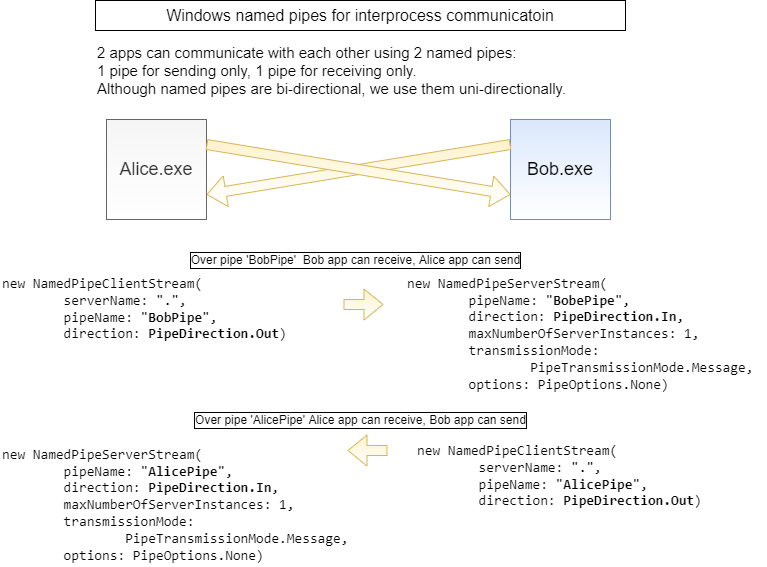
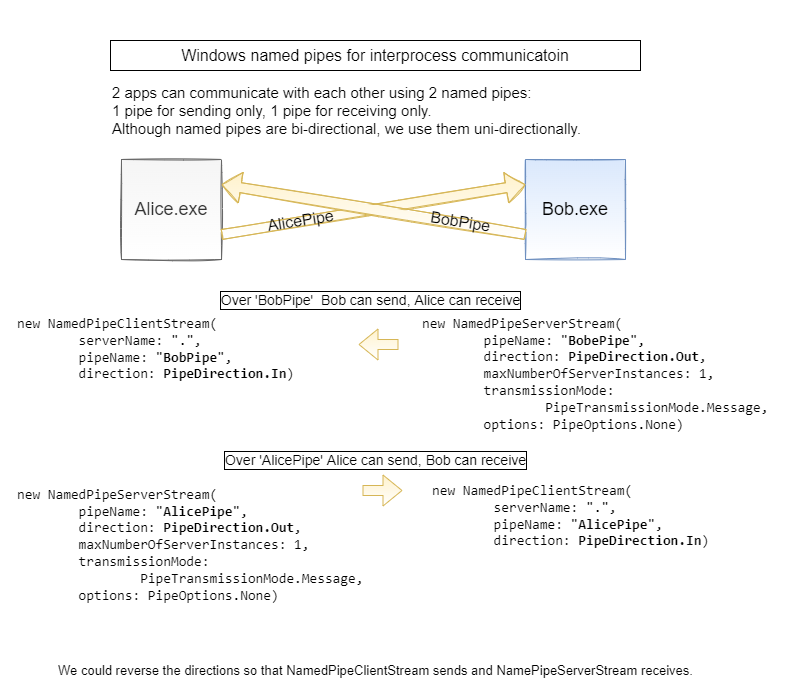
Diagram improved, directions reversed

Changed region(s): [[0.0, 0.3898, 0.9896, 0.9894], [0.1199, 0.0, 0.8096, 0.3898], [0.1499, 0.3598, 0.2699, 0.3898]]

diff --git a/src/NamedPipeLib/NamedPipeConnection.cs b/src/NamedPipeLib/NamedPipeConnection.cs
@@ -8,8 +8,8 @@ public class NamedPipeConnection : IDisposable
     private readonly string _myName;
     private readonly string _partnerName;
     private bool _connectionToPartnerEstablashed = false;
-    NamedPipeServerStream _in;
-    NamedPipeClientStream _out;
+    NamedPipeClientStream _in;
+    NamedPipeServerStream _out;
     CancellationTokenSource _cancellationTokenSource;
     object _lock = new object();
 
@@ -51,13 +51,13 @@ public class NamedPipeConnection : IDisposable
     {
         try
         {
-            _in = new NamedPipeServerStream(
+            _out = new NamedPipeServerStream(
                pipeName: _myName,
-               direction: PipeDirection.In,
+               direction: PipeDirection.Out,
                maxNumberOfServerInstances: 1,
                transmissionMode: PipeTransmissionMode.Message,
                options: PipeOptions.None);
-            await _in.WaitForConnectionAsync(_cancellationTokenSource.Token);
+            await _out.WaitForConnectionAsync(_cancellationTokenSource.Token);
             Connecting?.Invoke(this, "Server pipe accepted connection from client.");
             FireConnectedEvent();
             _ = Task.Run(ReadUntilDisconnected);
@@ -73,12 +73,12 @@ public class NamedPipeConnection : IDisposable
     {
         try
         {
-            _out = new NamedPipeClientStream(
+            _in = new NamedPipeClientStream(
                 serverName: ".",
                 pipeName: _partnerName,
-                direction: PipeDirection.Out);
-            await _out.ConnectAsync(_cancellationTokenSource.Token);
-            _out.ReadMode = PipeTransmissionMode.Message;
+                direction: PipeDirection.In);
+            await _in.ConnectAsync(_cancellationTokenSource.Token);
+            _in.ReadMode = PipeTransmissionMode.Message;
             Connecting?.Invoke(this, "Client pipe connected to server pipe.");
             FireConnectedEvent();
         }

diff --git a/ReadMe.md b/ReadMe.md
@@ -11,6 +11,9 @@ over named pipes. Each can send and receive messages to the partner
 
 ![](docs/NamedPipes.png)
 
+Note:
+We could reverse the directions so that NamedPipeClientStream sends and NamePipeServerStream receives.
+
 ## SOURCE
 
 Visual Studio(VS) solution consists of 3 projects:
